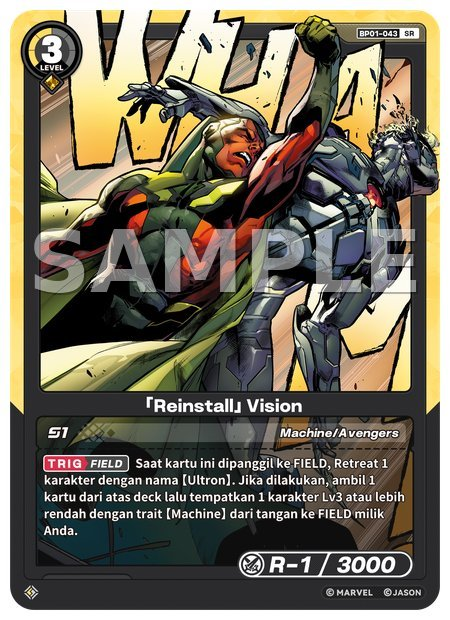
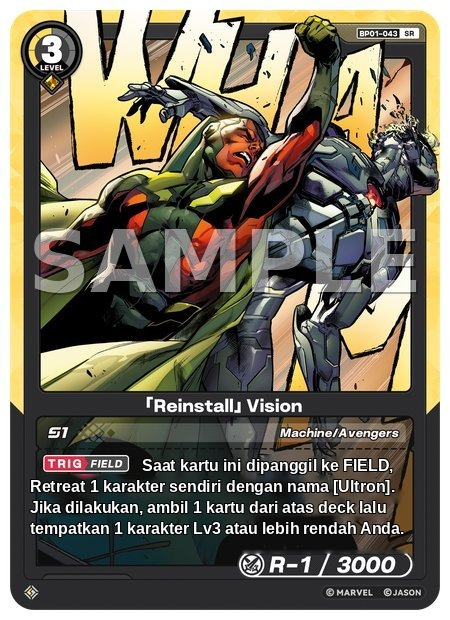
v6.13

Changed region(s): [[0.0622, 0.7355, 0.9022, 0.9194]]

diff --git a/index.html b/index.html
@@ -1,6 +1,6 @@
 <!DOCTYPE html>
 <!-- ===================================================================
-     MHR DECK LAB  ·  versi 6.12  ·  28 Agustus 2026
+     MHR DECK LAB  ·  versi 6.13  ·  28 Agustus 2026
      Marvel Hero Rush TCG Deck Builder — fan-made, versi Indonesia
      Live: https://data2712-code.github.io/mhr-lab-x7k2m9/
      Riwayat update lengkap: lihat README.md di repository
@@ -16,7 +16,7 @@
 <meta property="og:description" content="Susun deck Marvel Hero Rush: 208 kartu, filter lengkap, kurva level, dan bagikan deck sebagai link atau gambar.">
 <meta property="og:image" content="og-image.jpg">
 <meta name="twitter:card" content="summary_large_image">
-<meta name="version" content="6.12">
+<meta name="version" content="6.13">
 <!-- PWA: bisa "Add to Home Screen" dan jalan offline (lihat sw.js + manifest.json).
      Ikon dibuat dari palet situs sendiri (ink #0E1216 + accent #F2B01E), bukan
      turunan og-image.jpg — silakan diganti kapan saja kalau mau motif lain,
@@ -968,7 +968,7 @@
   pemegang haknya masing-masing. Data kartu dirujuk dari
   <a href="https://www.marvelherorush.com/id/cards" target="_blank" rel="noopener">database resmi marvelherorush.com</a>.
   Alat ini akan diturunkan apabila diminta oleh pemegang hak.</span>
-  <div style="margin-top:10px;font-family:var(--mono);font-size:10.5px;color:#5A6673">v6.12</div>
+  <div style="margin-top:10px;font-family:var(--mono);font-size:10.5px;color:#5A6673">v6.13</div>
 </footer>
 
 <div class="dview" id="simView" hidden>

diff --git a/README.md b/README.md
@@ -358,12 +358,12 @@ Nomor versi tercatat di tiga tempat, jadi mudah dipastikan file mana yang aktif:
 
 | Lokasi | Cara melihat |
 |---|---|
-| Nama file kiriman | `mhr_deck_lab_public_v6.12.html` |
+| Nama file kiriman | `mhr_deck_lab_public_v6.13.html` |
 | Komentar di baris awal file | buka file dengan editor teks, atau `Ctrl+U` (view source) di browser |
 | `<meta name="version">` | di dalam `<head>` |
-| Pojok bawah situs | teks kecil `v6.12` di bawah disclaimer footer |
+| Pojok bawah situs | teks kecil `v6.13` di bawah disclaimer footer |
 
-Kalau teks versi di footer tidak diinginkan, hapus baris `<div ...>v6.12</div>`
+Kalau teks versi di footer tidak diinginkan, hapus baris `<div ...>v6.13</div>`
 di dekat akhir `<footer>` — tidak memengaruhi fungsi apa pun.
 
 Menambah gambar kartu: masuk ke folder `images` dulu, baru Upload files.
@@ -396,6 +396,34 @@ dan tetap dukung pembacaan versi 1 agar link lama tidak rusak.
 ---
 
 ## Riwayat Update
+
+### v6.13 — 28 Agustus 2026 · teks di gambar 12 kartu errata V.1 ikut diperbaiki
+Lanjutan dari v6.12: setelah teks efek di database (`cards.js`) diperbaiki sesuai
+errata V.1, teks yang tercetak di **gambar kartunya sendiri** (bahasa Indonesia)
+kini juga diedit supaya sama-sama menampilkan versi setelah-errata — jadi gambar
+dan database tidak lagi berbeda redaksi.
+
+Kartu yang gambarnya diedit: `BP01-002`, `BP01-026`, `BP01-037`, `BP01-043`,
+`BP01-046` (kedua versi artwork/`_MR`), `BP01-052`, `BP01-090`, `SD01-007`,
+`SD01-018`, `SD04-002`, `SD04-003`, `SD04-005` — total 13 file gambar untuk
+12 kartu.
+
+- Untuk kartu berkotak teks polos (5 kartu), teks lama dihapus dan teks baru
+  ditulis ulang dengan font sejenis, rapi menyatu dengan kotak aslinya
+- Untuk kartu yang teksnya menempel langsung di atas artwork tanpa kotak polos
+  (7 kartu + 1 versi artwork tambahan), teks lama dihapus dengan teknik
+  rekonstruksi latar (inpainting) sebelum teks baru ditulis ulang di atasnya —
+  gaya lebih sulit disamakan persis dibanding kartu berkotak polos, tapi tetap
+  diusahakan serapi mungkin
+- Lencana kecil, ikon kemampuan ([TRIG], [COUNTER-ACTI], dst.), border warna,
+  dan sisa desain kartu (artwork, watermark SAMPLE, nomor R-x/Power) tidak
+  disentuh sama sekali — cuma paragraf teks efeknya yang diganti
+- Teks bahasa Inggris pada gambar (folder `images/en`) **tidak diubah** —
+  sama seperti di database, versi Inggrisnya sudah lebih dulu cocok dengan
+  bunyi setelah-errata
+- Diverifikasi dengan membandingkan setiap kartu hasil edit terhadap teks
+  "Setelah Errata" resmi dan terhadap gambar aslinya (memastikan tidak ada
+  sisa teks lama yang tertinggal maupun bagian desain lain yang berubah)
 
 ### v6.12 — 28 Agustus 2026 · errata resmi V.1 dari tim MHR Indonesia + lencana Errata
 Tim MHR Indonesia merilis daftar errata resmi pertama (V.1) untuk 10 kartu — teks
